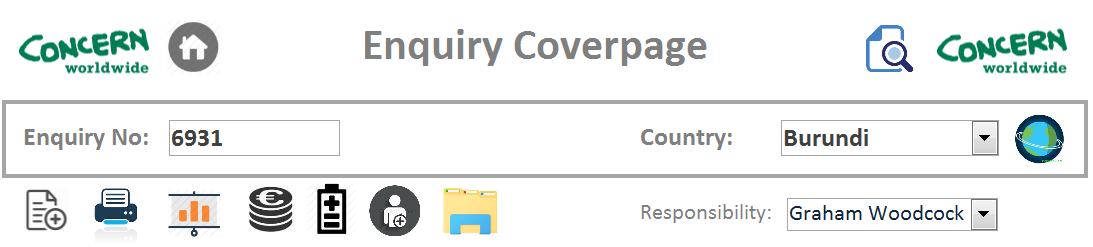
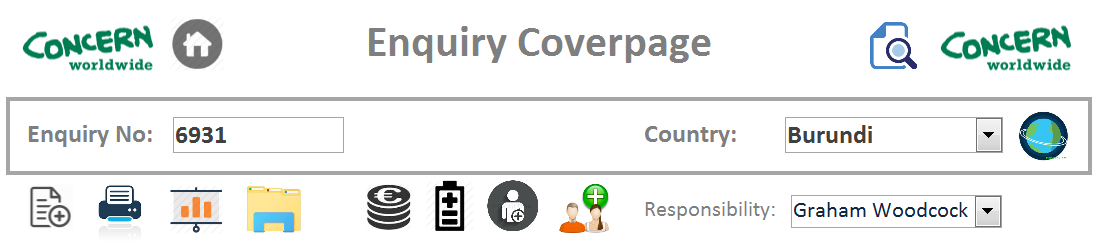
Section 1 updated with pre-reading section

diff --git a/Manual Contents/Main Page.html b/Manual Contents/Main Page.html
@@ -212,6 +212,191 @@
        </div>
 
        </div>
+     </div>
+   </div>
+ </div>
+
+       <div class="panel panel-success">
+       <div class="panel-heading">
+         <h4 class="panel-title">
+             <a data-toggle="collapse"
+             href="#collapseA4" data-parent="#accodrian1">4. Pre-Reading (understanding general components and navigation)</a>
+         </h4>
+       </div>
+      <div id="collapseA4" class="panel-collapse collapse">
+       <div class="panel-body">
+       
+       <!--Start of grid within panel 3-->  
+       <div class="row">
+       <div class="col-sm-12">
+       <h2>Icons &amp buttons</h2>
+       <p>While entering and editing data, you will notice that there are certain fields that are <abbr title="Lists that are pre-defined and linked to data in other tables">dropdowns</abbr> and therefore may limit the data that you can enter. There may also be times when you need to enter a new data to these drop down lists based on new requirements (e.g. opening a new country of operation).  The below explains each of these fields and show the button to press to open up a data entry form for creating new options for the list.</p>
+       <p>Throughout the Coverpage there are various icons/buttons that can be pressed to edit the existing dropdown menus.  The following is a screenshot of where they are located:</p><br>
+       <img style="border:solid" src="img/screenshots/EnquiryTopBar.png" class="center-block img-responsive" alt="New Record" width="50%" height="50%"><br><br>
+       <p>Each of the relevant icons/buttons are discussed below</p>
+       </div>
+       </div>
+
+       <hr>
+
+
+       <div class="row">
+       <div style="text-align:center" class="col-sm-12">
+       <h2>Drop-Down Menus</h2><br>
+       </div>
+
+       <div class="col-sm-4">
+       <img src="img/screenshots/NewCountry.png" class="center-block img-responsive" alt="New Country" maxwidth="20%" maxheight="20%"><br>       
+       <p style="text-align: center">Use this icon to open up the form for entering a <br><kbd>New Country</kbd></p>
+       </div>
+
+       <div class="col-sm-4">
+       <img src="img/screenshots/NewCurrency.png" class="center-block img-responsive" alt="New Country" maxwidth="18%" maxheight="18%"><br>       
+       <p style="text-align: center">Use this icon to open up the form for entering a <br><kbd>New Currency</kbd></p>
+       </div>
+
+       <div class="col-sm-4">
+       <img src="img/screenshots/NewStatus.png" class="center-block img-responsive" alt="New Country" maxwidth="18%" maxheight="18%"><br>       
+       <p style="text-align: center">Use this icon to open up the form for entering a <br><kbd>New Status</kbd></p>
+       </div>
+       </div>
+
+       <br><br><br>
+       <div class="row">
+
+       <div class="col-sm-6">
+       <img src="img/screenshots/NewSupplier.png" class="center-block img-responsive" alt="New Country" maxwidth="20%" maxheight="20%"><br>       
+       <p style="text-align: center">Use this icon to open up the form for entering a <br><kbd>New Supplier</kbd></p>
+       </div>
+
+
+       <div class="col-sm-6">
+       <img src="img/screenshots/NewUser.png" class="center-block img-responsive" alt="New Country" maxwidth="18%" maxheight="18%"><br>       
+       <p style="text-align: center">Use this icon to open up the form for entering a <br><kbd>New User</kbd></p>
+       </div>
+       </div>
+       <!--End of grid within panel 3-->
+       
+       <hr>
+
+       <div class="row">
+       <div class="col-sm-6">
+       <h2>Forms</h2><br>
+       <p>Clicking on the above icons will result in opening a data entry form, depending on which icon you choose. There may be some sublte differences between each form, but generally they will look similar and serve the same purpose....allow the user to quickly edit existing data in the drop down tables, or to add new records/data.</p>
+       <p>The example to the right is that of the Supplier Form, in which the user can edit existing Supplier details or add a New Supplier details:</p>
+       </div>
+       
+       <div class="col-sm-6">
+       <img src="img/screenshots/SupplierForm.png" class="center-block img-responsive" alt="New Country" maxwidth="20%" maxheight="20%">
+       </div>
+       </div><br><br>
+
+       <div class="row">
+       <div class="col-sm-4">
+       <h3>Form Navigation</h3><br>
+       <p>There will be buttons in each form to enable you to Add New Records and navigate back to the either the Main Menu (i.e.Home) or to the Enquiry Coverpage (i.e. main data entry form).  The two main icons are as follows:</p>
+       </div>
+       
+       <div class="col-sm-4">
+       <img src="img/screenshots/NewSupplier.png" class="center-block img-responsive" alt="New Country" maxwidth="5%" maxheight="5%"><br>       
+       <p style="text-align: center">Use this icon to enter a <br><kbd>New Record</kbd></p>
+       </div>
+
+       <div class="col-sm-4">
+       <img src="img/screenshots/ReturnToCoverPage.png" class="center-block img-responsive" alt="New Country" maxwidth="18%" maxheight="18%"><br>       
+       <p style="text-align: center">Use this icon to <br><kbd>Return To The Coverpage</kbd></p>
+       </div>
+       </div>
+
+       <hr>
+
+       <div class="row">
+       <div style="text-align:center" class="col-sm-12">
+       <h2>General Navigation</h2><br>
+       <p>As well as the icons/buttons for opening the abovementioned forms, there are some additional buttons to be aware of.  These are used for general navigation.  Some are explained in more detail in the sections below (e.g. Print Coverpage), but below you will find a brief description of each.</p><br><br>
+       </div>
+
+       <div class="col-sm-4">
+       <img src="img/screenshots/Home_button.png" class="center-block img-responsive" alt="New Country" maxwidth="20%" maxheight="20%"><br>       
+       <p style="text-align: center">Use this icon to return to the <br><kbd>Main Menu</kbd></p>
+       </div>
+
+       <div class="col-sm-4">
+       <img src="img/screenshots/NewRecord.png" class="center-block img-responsive" alt="New Country" maxwidth="18%" maxheight="18%"><br>       
+       <p style="text-align: center">Use this icon to add a <br><kbd>New Record</kbd></p>
+       </div>
+
+       <div class="col-sm-4">
+       <img src="img/screenshots/PrintCoverPage.png" class="center-block img-responsive" alt="New Country" maxwidth="18%" maxheight="18%"><br>       
+       <p style="text-align: center">Use this icon to <br><kbd>Print The Coverpage</kbd></p>
+       </div>
+       </div>
+
+       <br><br><br>
+       <div class="row">
+
+       <div class="col-sm-4">
+       <img src="img/screenshots/SRStatusReport.png" class="center-block img-responsive" alt="New Country" maxwidth="20%" maxheight="20%"><br>       
+       <p style="text-align: center">Use this icon to open the <br><kbd>SR Status Report</kbd></p>
+       </div>
+
+       <div class="col-sm-4">
+       <img src="img/screenshots/OpenCountryFolder.png" class="center-block img-responsive" alt="New Country" maxwidth="20%" maxheight="20%"><br>       
+       <p style="text-align: center">Use this icon to open the <br><kbd>Open The Country Folders</kbd></p>
+       </div>
+
+       <div class="col-sm-4">
+       <img src="img/screenshots/AttachFile.png" class="center-block img-responsive" alt="New Country" maxwidth="20%" maxheight="20%"><br>       
+       <p style="text-align: center">Use this icon to <br><kbd>Attach Relevant Files</kbd></p>
+       </div>
+       </div>
+
+       <hr>
+
+       <div class="row">
+       <div style="text-align:center" class="col-sm-6">
+       <h2>Search Function</h2><br>
+       <img src="img/screenshots/SearchOptions.png" class="center-block img-responsive" alt="New Country" maxwidth="20%" maxheight="20%"><br>
+       <p>There is one more icon/button to discuss, and that is the <kbd>Search Options</kbd> button.  This will open the main search options (the same as using "Ctrl+F") and can be used to search in a number of different ways.  Hitting this button will open the following search options window:</p><br><br>
+       </div>
+
+       <div class="col-sm-6">
+       <img src="img/screenshots/SearchWindow.png" class="center-block img-responsive" alt="New Country" maxwidth="25%" maxheight="25%">     
+       </div>
+       </div>
+
+       <div class="row">
+       <div style="text-align:center" class="col-sm-12">
+       <h3>Things To Consider</h3><br>
+       <p>When searching there are two options/functions to consider, depending on what you are searching for.  There are two drop-down options called <kbd class="label-default">Look In:</kbd> and <kbd class="label-default">Match:</kbd></p><br><br>
+       </div>
+
+       <div class="col-sm-6">
+       <h4><b>Look In:</b></h4>
+       <p>Under this heading there are the following two options:<br><br>
+       <u>Current Field</u><br>
+       This means that it will only search in the current field.  This is useful for when you're looking for something specific.  An example would be an SR No. Rather than slowing down the search by searching the whole database, simply select the relevant field (in this case the SR field) before hitting the search button.<br><br>
+       <u>Current Document</u><br>
+       This means useful for when you may not be sure what field the data is contained in (e.g. perhaps the GRN number, or a piece of text), as this will search every field and record in the database.</p>    
+       </div>
+
+       <div class="col-sm-6">
+       <h4><b>Match:</b></h4>
+       <p>Under this heading there are the following three options:<br><br>
+       <u>Whole Field</u><br>
+       This will search for an EXACT match of what you have entered, meaning that no other data can be contained in the field.<br><br>
+       <u>Any Part Of The Field</u><br>
+       This is the broadest type of search as it will search for data at the start, end and middle of the sentence/field.<br><br>
+       <u>Start Of Field</u><br>
+       This will search at the start of the string to check for the data entered.</p>    
+       </div>
+       </div>
+
+
+       
+       </div>
+      </div>
+     </div>
        
 
        
@@ -433,7 +618,7 @@
        <div class="panel-heading">
          <h4 class="panel-title">
              <a data-toggle="collapse"
-             href="#collapseC1" data-parent="#accodrian3">1. Open the Enquiry Database and Enable Content</a>
+             href="#collapseC1" data-parent="#accodrian3">1. Pre-Reading (understanding the components and navigation of coverpage)</a>
          </h4>
        </div>
       <div id="collapseC1" class="panel-collapse collapse">
@@ -441,44 +626,16 @@
        
        <!--Start of grid within panel 3-->  
        <div class="row">
-       <div class="col-sm-4">
-       <h2>HTML</h2>
-       <p>Lorem ipsum dolor sit amet, consectetur adipisicing elit, sed do eiusmod
-       tempor incididunt ut labore et dolore magna aliqua. Ut enim ad minim veniam,
-       quis nostrud exercitation <kbd>ullamco</kbd> laboris nisi ut aliquip ex ea commodo
-       consequat. Duis aute irure dolor in reprehenderit in voluptate velit esse
-       cillum dolore eu fugiat nulla pariatur. Excepteur sint occaecat cupidatat non
-       proident, sunt in culpa qui officia deserunt mollit anim id est laborum.</p>
-       <a href="#" class="btn btn-success btn-lg">Learn</a>
+       <div class="col-sm-12">
+       <p>test</p>    
+       </div>
        </div>
 
-       <div class="col-sm-4">
-       <h2>CSS</h2>
-       <p>Lorem ipsum dolor sit amet, consectetur adipisicing elit, sed do eiusmod
-       tempor incididunt ut labore et dolore magna aliqua. Ut enim ad minim veniam,
-       quis nostrud exercitation ullamco laboris nisi ut aliquip ex ea commodo
-       consequat. Duis aute irure dolor in reprehenderit in voluptate velit esse
-       cillum dolore eu fugiat nulla pariatur. Excepteur sint occaecat cupidatat non
-       proident, sunt in culpa qui officia deserunt mollit anim id est laborum.</p>
-       <a href="#" class="btn btn-primary btn-default">Learn</a>
-       </div>
-
-       <div class="col-sm-4">
-       <h2>Bootstrap</h2>
-       <p>Lorem ipsum dolor sit amet, consectetur adipisicing elit, sed do eiusmod
-       tempor incididunt ut labore et dolore magna aliqua. Ut enim ad minim veniam,
-       quis nostrud exercitation ullamco laboris nisi ut aliquip ex ea commodo
-       consequat. Duis aute irure dolor in reprehenderit in voluptate velit esse
-       cillum dolore eu fugiat nulla pariatur. Excepteur sint occaecat cupidatat non
-       proident, sunt in culpa qui officia deserunt mollit anim id est laborum.</p>
-       <a href="#" class="btn btn-danger btn-sm">Learn</a>
-       </div>
-       </div>
-       <!--End of grid within panel 3-->
-
+       
        </div>
       </div>
      </div>
+
       <div class="panel panel-success">
        <div class="panel-heading">
          <h4 class="panel-title">
@@ -506,6 +663,7 @@
         </div>
        </div>
       </div>
+
     </div>
     <!--End of Accordian Panel 3-->
 
@@ -536,7 +694,7 @@
        <div class="panel-heading">
          <h4 class="panel-title">
              <a data-toggle="collapse"
-             href="#collapseD1" data-parent="#accodrian4">1. Open the Enquiry Database and Enable Content</a>
+             href="#collapseD1" data-parent="#accodrian4">1. Pre-Reading (understanding the components)</a>
          </h4>
        </div>
       <div id="collapseD1" class="panel-collapse collapse">
